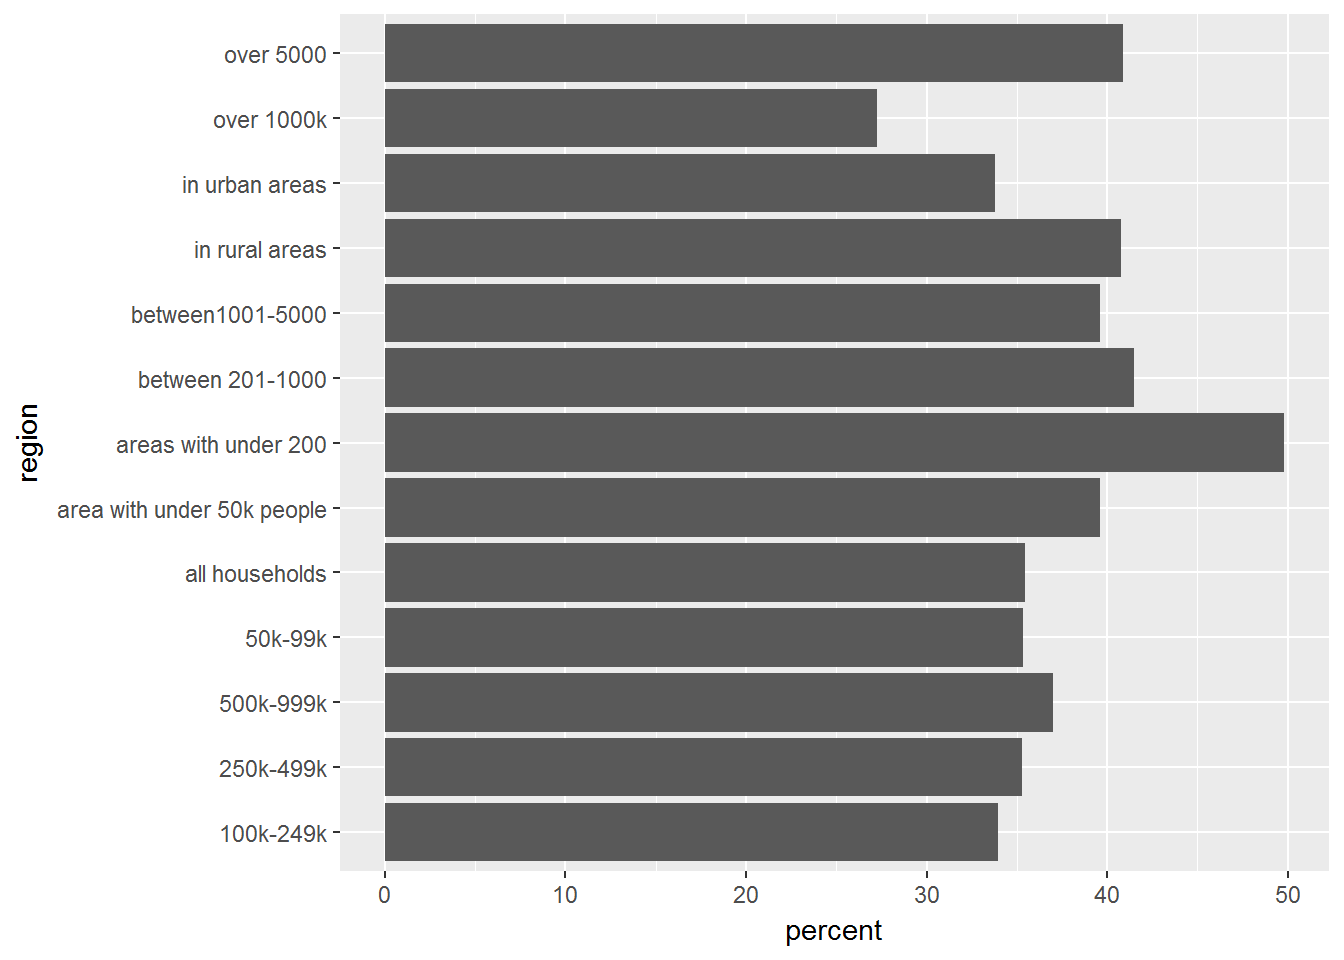
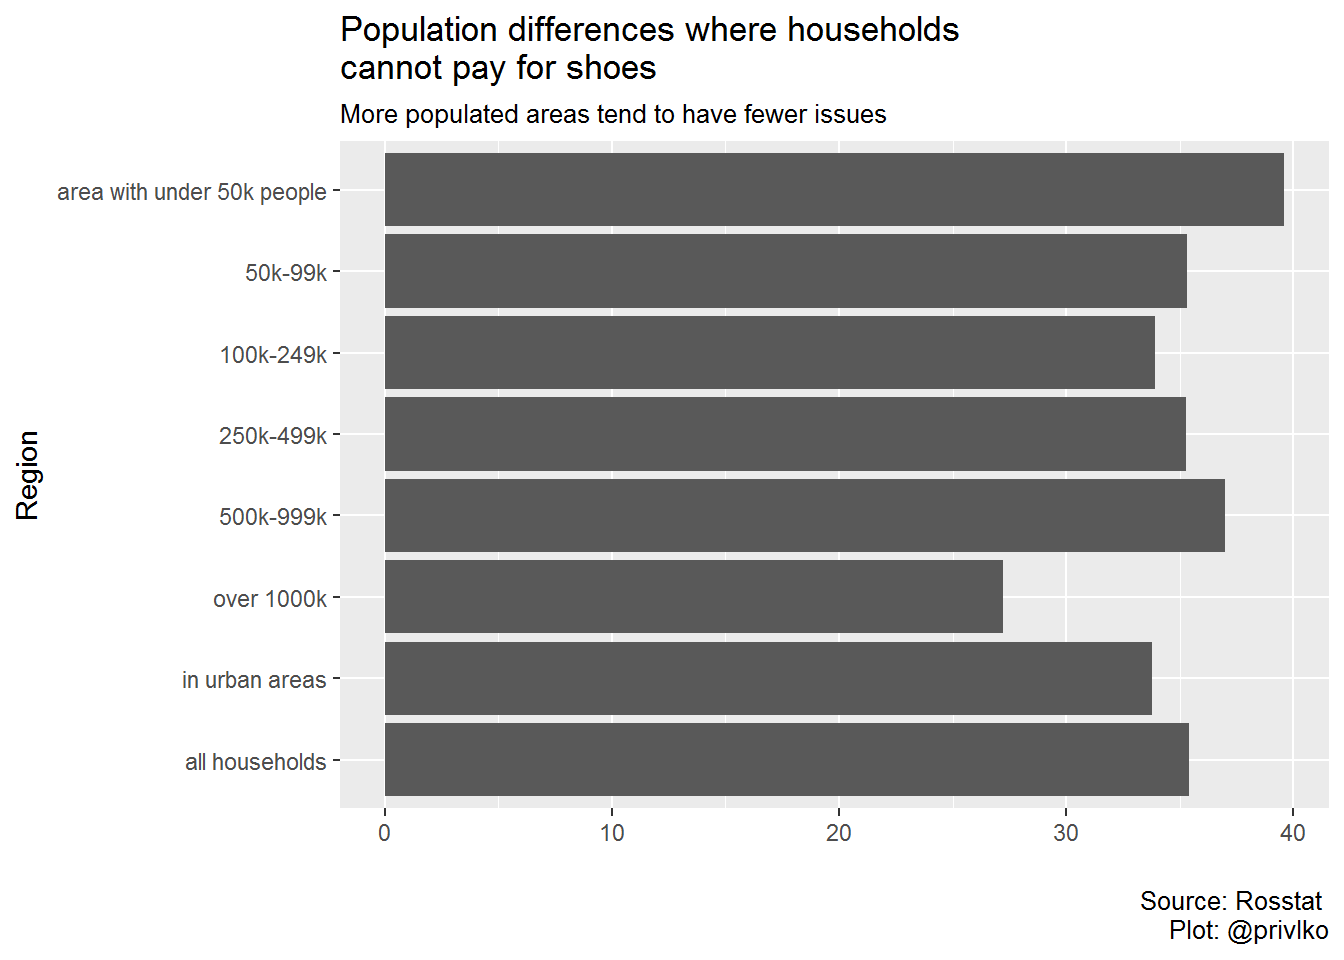
shoes fixed

diff --git a/public/2019/04/08/poverty-shoes-and-rosstat/index.html b/public/2019/04/08/poverty-shoes-and-rosstat/index.html
@@ -19,11 +19,6 @@
 
 
 
-
-<link href='//cdn.bootcss.com/highlight.js/9.11.0/styles/github.min.css' rel='stylesheet' type='text/css' />
-
-
-
 <link rel="stylesheet" href="/css/fonts.css" media="all">
 <link rel="stylesheet" href="/css/main.css" media="all">
 
@@ -58,7 +53,7 @@
 
   <article class="article">
     
-    <span class="article-duration">4 min read</span>
+    <span class="article-duration">3 min read</span>
     
 
     <h1 class="article-title">Poverty, shoes, and Rosstat</h1>
@@ -71,70 +66,16 @@
       <p>Rosstat, Russia’s main authority on state figures, recently released a summary of poverty and deprivation. One of the main findings suggests that 33% of households cannot afford two pairs of seasonally appropriate shoes for everyone in the home. <a href="https://www.themoscowtimes.com/2019/04/04/official-poll-shows-russians-too-poor-to-afford-shoes-puzzling-kremlin-a65083">A few publications picked up on the finding, and the Kremlin supposedly rejects the body’s figures.</a>.</p>
 <p>Generally, <a href="https://wageindicator.co.uk/pay/global-wage-comparison">Russia’s wages are famously low</a> the median hourly wage works out at roughly 0.91 net per hour in British pounds. Compared to the British median of 5.93 per hour. Further, there is wide inequality and dispersion in earnings, which likely impacts households income further. On top of these points, <a href="https://meduza.io/en/feature/2019/04/02/navalny-s-labor-union-demands-higher-pay-for-civil-servants-in-accordance-with-putin-s-may-2012-executive-order-here-s-why-that-s-impossible">opposition politicians have started pointing out that earners (especially those in the public sector) typically receive less pay than they are contractually obligated to receive.</a></p>
 <p>However, the stats presented by Rosstat are particularly strange because they capture other measures of deprivation, which suggest that homes are comfortable with larger expenses but less comfortable paying for shoes. I translate and illustrate these below.</p>
-<pre><code>## -- Attaching packages --------------------------------------- tidyverse 1.2.1 --</code></pre>
-<pre><code>## v ggplot2 2.2.1     v purrr   0.2.4
-## v tibble  2.0.1     v dplyr   0.7.8
-## v tidyr   0.8.1     v stringr 1.3.1
-## v readr   1.1.1     v forcats 0.3.0</code></pre>
-<pre><code>## -- Conflicts ------------------------------------------ tidyverse_conflicts() --
-## x dplyr::filter() masks stats::filter()
-## x dplyr::lag()    masks stats::lag()</code></pre>
-<pre><code>## Parsed with column specification:
-## cols(
-##   `Cannot afford` = col_character(),
-##   `all households` = col_double(),
-##   `in urban areas` = col_double(),
-##   `area with under 50k people` = col_double(),
-##   `50k-99k` = col_double(),
-##   `100k-249k` = col_double(),
-##   `250k-499k` = col_double(),
-##   `500k-999k` = col_double(),
-##   `over 1000k` = col_double(),
-##   `in rural areas` = col_double(),
-##   `areas with under 200` = col_double(),
-##   `between 201-1000` = col_double(),
-##   `between1001-5000` = col_double(),
-##   `over 5000` = col_double()
-## )</code></pre>
-<p>A brief graph summarises the results for all households together.</p>
 <p><img src="/post/2019-04-08-poverty-shoes-and-rosstat_files/figure-html/unnamed-chunk-2-1.png" width="672" /></p>
-<p>Over half of all households could not replace furniture or pay for a sudden cost like a medical procedure. A significant majority could not take a week’s holiday at a second home or with friends or family. The cost of new shoes registers as a significant issue for 33% of households, even though a holiday break at a dacha would be relatively inexpensive but may consist of taking time off work. Furtherseasonal clothing for the family only registers as an issue for roughly 10% of households, although this cost is likely comparable to shoes.</p>
+<p>Over half of all households could not replace furniture or pay for a sudden cost like a medical procedure. A significant majority could not take a week’s holiday at a second home or with friends or family. The cost of new shoes registers as a significant issue for 33% of households, even though a holiday break at a dacha would be relatively inexpensive but may consist of taking time off work. Further seasonal clothing for the family only registers as an issue for roughly 10% of households, although this cost is likely comparable to two pairs of shoes.</p>
 <p>What’s strangest is that one in five households claim to not be able to buy fruit at any time of the year, but one in ten claim to not be able to buy pharamceuticals, which are obviously more expensive than meat, fruit or fish.</p>
-<p>In general the data from Rosstat seems strange and at times, counter intuitive. One issue may lie with the wording of the question. The deprivation question about clothes focuses on a single family member, the question about shoes focuses on each member of the family. This is a stretch, but could impact theway questions are answered.</p>
+<p>In general the data from Rosstat seems strange and at times, counter intuitive. One issue may be how the question is phrased. The deprivation question about clothes focuses on a single family member, the question about shoes focuses on each member of the family. This is a stretch, but could impact the way questions are answered.</p>
 <p>It’s worth briefly looking at the shoe question spreads across urban and rural Russia.</p>
-<pre><code>## Parsed with column specification:
-## cols(
-##   `Cannot afford` = col_character(),
-##   `all households` = col_double(),
-##   `in urban areas` = col_double(),
-##   `area with under 50k people` = col_double(),
-##   `50k-99k` = col_double(),
-##   `100k-249k` = col_double(),
-##   `250k-499k` = col_double(),
-##   `500k-999k` = col_double(),
-##   `over 1000k` = col_double()
-## )</code></pre>
-<p><img src="/post/2019-04-08-poverty-shoes-and-rosstat_files/figure-html/unnamed-chunk-3-1.png" width="672" /> Looking at urband regions first, it seems like a singificant portion of households had issues paying for shoes. regions with over a million people (over 1000k) reported near 30% of households had the issue, while ares with less than 40k people had a higher percent.</p>
-<pre><code>## Parsed with column specification:
-## cols(
-##   `Cannot afford` = col_character(),
-##   `all households` = col_double(),
-##   `in urban areas` = col_double(),
-##   `area with under 50k people` = col_double(),
-##   `50k-99k` = col_double(),
-##   `100k-249k` = col_double(),
-##   `250k-499k` = col_double(),
-##   `500k-999k` = col_double(),
-##   `over 1000k` = col_double(),
-##   `in rural areas` = col_double(),
-##   `areas with under 200` = col_double(),
-##   `between 201-1000` = col_double(),
-##   `between1001-5000` = col_double(),
-##   `over 5000` = col_double()
-## )</code></pre>
 <p><img src="/post/2019-04-08-poverty-shoes-and-rosstat_files/figure-html/unnamed-chunk-4-1.png" width="672" /></p>
-<p>Rural areas are particularly affecte dby the measure with areas with less than 200 people reporting 50% of households struggle to pay for shoes, while more densely populated areas report greater ease (between 1001-5000).</p>
-<p>The measures may be capturing deprivation accurately, it seems to vary by urban and rural settings, but the uestion may have to be rephrased in future work.</p>
+<p>Looking at urband regions first, it seems like a singificant portion of households had issues paying for shoes. Regions with over a million people (over 1000k) reported almost 30% of households listed the issue, while ares with less than 40k people had a higher percent.</p>
+<p><img src="/post/2019-04-08-poverty-shoes-and-rosstat_files/figure-html/unnamed-chunk-5-1.png" width="672" /></p>
+<p>Rural areas are particularly affected by the measure with areas with less than 200 people reporting 50% of households struggle to pay for shoes, while more densely populated areas report greater ease (between 1001-5000).</p>
+<p>The measures may be capturing deprivation accurately, it seems to vary by urban and rural settings, but the question may have to be rephrased in future work. More widely, the answer is consistent with what’s expected between rural and urban areas.</p>
 
     </div>
   </article>
@@ -157,18 +98,6 @@
 
     </div>
     
-
-
-
-<script src="//cdn.bootcss.com/highlight.js/9.11.0/highlight.min.js"></script>
-
-
-
-<script src="//cdn.bootcss.com/highlight.js/9.11.0/languages/r.min.js"></script>
-<script src="//cdn.bootcss.com/highlight.js/9.11.0/languages/yaml.min.js"></script>
-<script>hljs.configure({languages: []}); hljs.initHighlightingOnLoad();</script>
-
-
 
     
 

diff --git a/content/post/2019-04-08-poverty-shoes-and-rosstat.html b/content/post/2019-04-08-poverty-shoes-and-rosstat.html
@@ -14,67 +14,13 @@ tags: []
 <p>Rosstat, Russia’s main authority on state figures, recently released a summary of poverty and deprivation. One of the main findings suggests that 33% of households cannot afford two pairs of seasonally appropriate shoes for everyone in the home. <a href="https://www.themoscowtimes.com/2019/04/04/official-poll-shows-russians-too-poor-to-afford-shoes-puzzling-kremlin-a65083">A few publications picked up on the finding, and the Kremlin supposedly rejects the body’s figures.</a>.</p>
 <p>Generally, <a href="https://wageindicator.co.uk/pay/global-wage-comparison">Russia’s wages are famously low</a> the median hourly wage works out at roughly 0.91 net per hour in British pounds. Compared to the British median of 5.93 per hour. Further, there is wide inequality and dispersion in earnings, which likely impacts households income further. On top of these points, <a href="https://meduza.io/en/feature/2019/04/02/navalny-s-labor-union-demands-higher-pay-for-civil-servants-in-accordance-with-putin-s-may-2012-executive-order-here-s-why-that-s-impossible">opposition politicians have started pointing out that earners (especially those in the public sector) typically receive less pay than they are contractually obligated to receive.</a></p>
 <p>However, the stats presented by Rosstat are particularly strange because they capture other measures of deprivation, which suggest that homes are comfortable with larger expenses but less comfortable paying for shoes. I translate and illustrate these below.</p>
-<pre><code>## -- Attaching packages --------------------------------------- tidyverse 1.2.1 --</code></pre>
-<pre><code>## v ggplot2 2.2.1     v purrr   0.2.4
-## v tibble  2.0.1     v dplyr   0.7.8
-## v tidyr   0.8.1     v stringr 1.3.1
-## v readr   1.1.1     v forcats 0.3.0</code></pre>
-<pre><code>## -- Conflicts ------------------------------------------ tidyverse_conflicts() --
-## x dplyr::filter() masks stats::filter()
-## x dplyr::lag()    masks stats::lag()</code></pre>
-<pre><code>## Parsed with column specification:
-## cols(
-##   `Cannot afford` = col_character(),
-##   `all households` = col_double(),
-##   `in urban areas` = col_double(),
-##   `area with under 50k people` = col_double(),
-##   `50k-99k` = col_double(),
-##   `100k-249k` = col_double(),
-##   `250k-499k` = col_double(),
-##   `500k-999k` = col_double(),
-##   `over 1000k` = col_double(),
-##   `in rural areas` = col_double(),
-##   `areas with under 200` = col_double(),
-##   `between 201-1000` = col_double(),
-##   `between1001-5000` = col_double(),
-##   `over 5000` = col_double()
-## )</code></pre>
-<p>A brief graph summarises the results for all households together.</p>
 <p><img src="/post/2019-04-08-poverty-shoes-and-rosstat_files/figure-html/unnamed-chunk-2-1.png" width="672" /></p>
-<p>Over half of all households could not replace furniture or pay for a sudden cost like a medical procedure. A significant majority could not take a week’s holiday at a second home or with friends or family. The cost of new shoes registers as a significant issue for 33% of households, even though a holiday break at a dacha would be relatively inexpensive but may consist of taking time off work. Furtherseasonal clothing for the family only registers as an issue for roughly 10% of households, although this cost is likely comparable to shoes.</p>
+<p>Over half of all households could not replace furniture or pay for a sudden cost like a medical procedure. A significant majority could not take a week’s holiday at a second home or with friends or family. The cost of new shoes registers as a significant issue for 33% of households, even though a holiday break at a dacha would be relatively inexpensive but may consist of taking time off work. Further seasonal clothing for the family only registers as an issue for roughly 10% of households, although this cost is likely comparable to two pairs of shoes.</p>
 <p>What’s strangest is that one in five households claim to not be able to buy fruit at any time of the year, but one in ten claim to not be able to buy pharamceuticals, which are obviously more expensive than meat, fruit or fish.</p>
-<p>In general the data from Rosstat seems strange and at times, counter intuitive. One issue may lie with the wording of the question. The deprivation question about clothes focuses on a single family member, the question about shoes focuses on each member of the family. This is a stretch, but could impact theway questions are answered.</p>
+<p>In general the data from Rosstat seems strange and at times, counter intuitive. One issue may be how the question is phrased. The deprivation question about clothes focuses on a single family member, the question about shoes focuses on each member of the family. This is a stretch, but could impact the way questions are answered.</p>
 <p>It’s worth briefly looking at the shoe question spreads across urban and rural Russia.</p>
-<pre><code>## Parsed with column specification:
-## cols(
-##   `Cannot afford` = col_character(),
-##   `all households` = col_double(),
-##   `in urban areas` = col_double(),
-##   `area with under 50k people` = col_double(),
-##   `50k-99k` = col_double(),
-##   `100k-249k` = col_double(),
-##   `250k-499k` = col_double(),
-##   `500k-999k` = col_double(),
-##   `over 1000k` = col_double()
-## )</code></pre>
-<p><img src="/post/2019-04-08-poverty-shoes-and-rosstat_files/figure-html/unnamed-chunk-3-1.png" width="672" /> Looking at urband regions first, it seems like a singificant portion of households had issues paying for shoes. regions with over a million people (over 1000k) reported near 30% of households had the issue, while ares with less than 40k people had a higher percent.</p>
-<pre><code>## Parsed with column specification:
-## cols(
-##   `Cannot afford` = col_character(),
-##   `all households` = col_double(),
-##   `in urban areas` = col_double(),
-##   `area with under 50k people` = col_double(),
-##   `50k-99k` = col_double(),
-##   `100k-249k` = col_double(),
-##   `250k-499k` = col_double(),
-##   `500k-999k` = col_double(),
-##   `over 1000k` = col_double(),
-##   `in rural areas` = col_double(),
-##   `areas with under 200` = col_double(),
-##   `between 201-1000` = col_double(),
-##   `between1001-5000` = col_double(),
-##   `over 5000` = col_double()
-## )</code></pre>
 <p><img src="/post/2019-04-08-poverty-shoes-and-rosstat_files/figure-html/unnamed-chunk-4-1.png" width="672" /></p>
-<p>Rural areas are particularly affecte dby the measure with areas with less than 200 people reporting 50% of households struggle to pay for shoes, while more densely populated areas report greater ease (between 1001-5000).</p>
-<p>The measures may be capturing deprivation accurately, it seems to vary by urban and rural settings, but the uestion may have to be rephrased in future work.</p>
+<p>Looking at urband regions first, it seems like a singificant portion of households had issues paying for shoes. Regions with over a million people (over 1000k) reported almost 30% of households listed the issue, while ares with less than 40k people had a higher percent.</p>
+<p><img src="/post/2019-04-08-poverty-shoes-and-rosstat_files/figure-html/unnamed-chunk-5-1.png" width="672" /></p>
+<p>Rural areas are particularly affected by the measure with areas with less than 200 people reporting 50% of households struggle to pay for shoes, while more densely populated areas report greater ease (between 1001-5000).</p>
+<p>The measures may be capturing deprivation accurately, it seems to vary by urban and rural settings, but the question may have to be rephrased in future work. More widely, the answer is consistent with what’s expected between rural and urban areas.</p>
